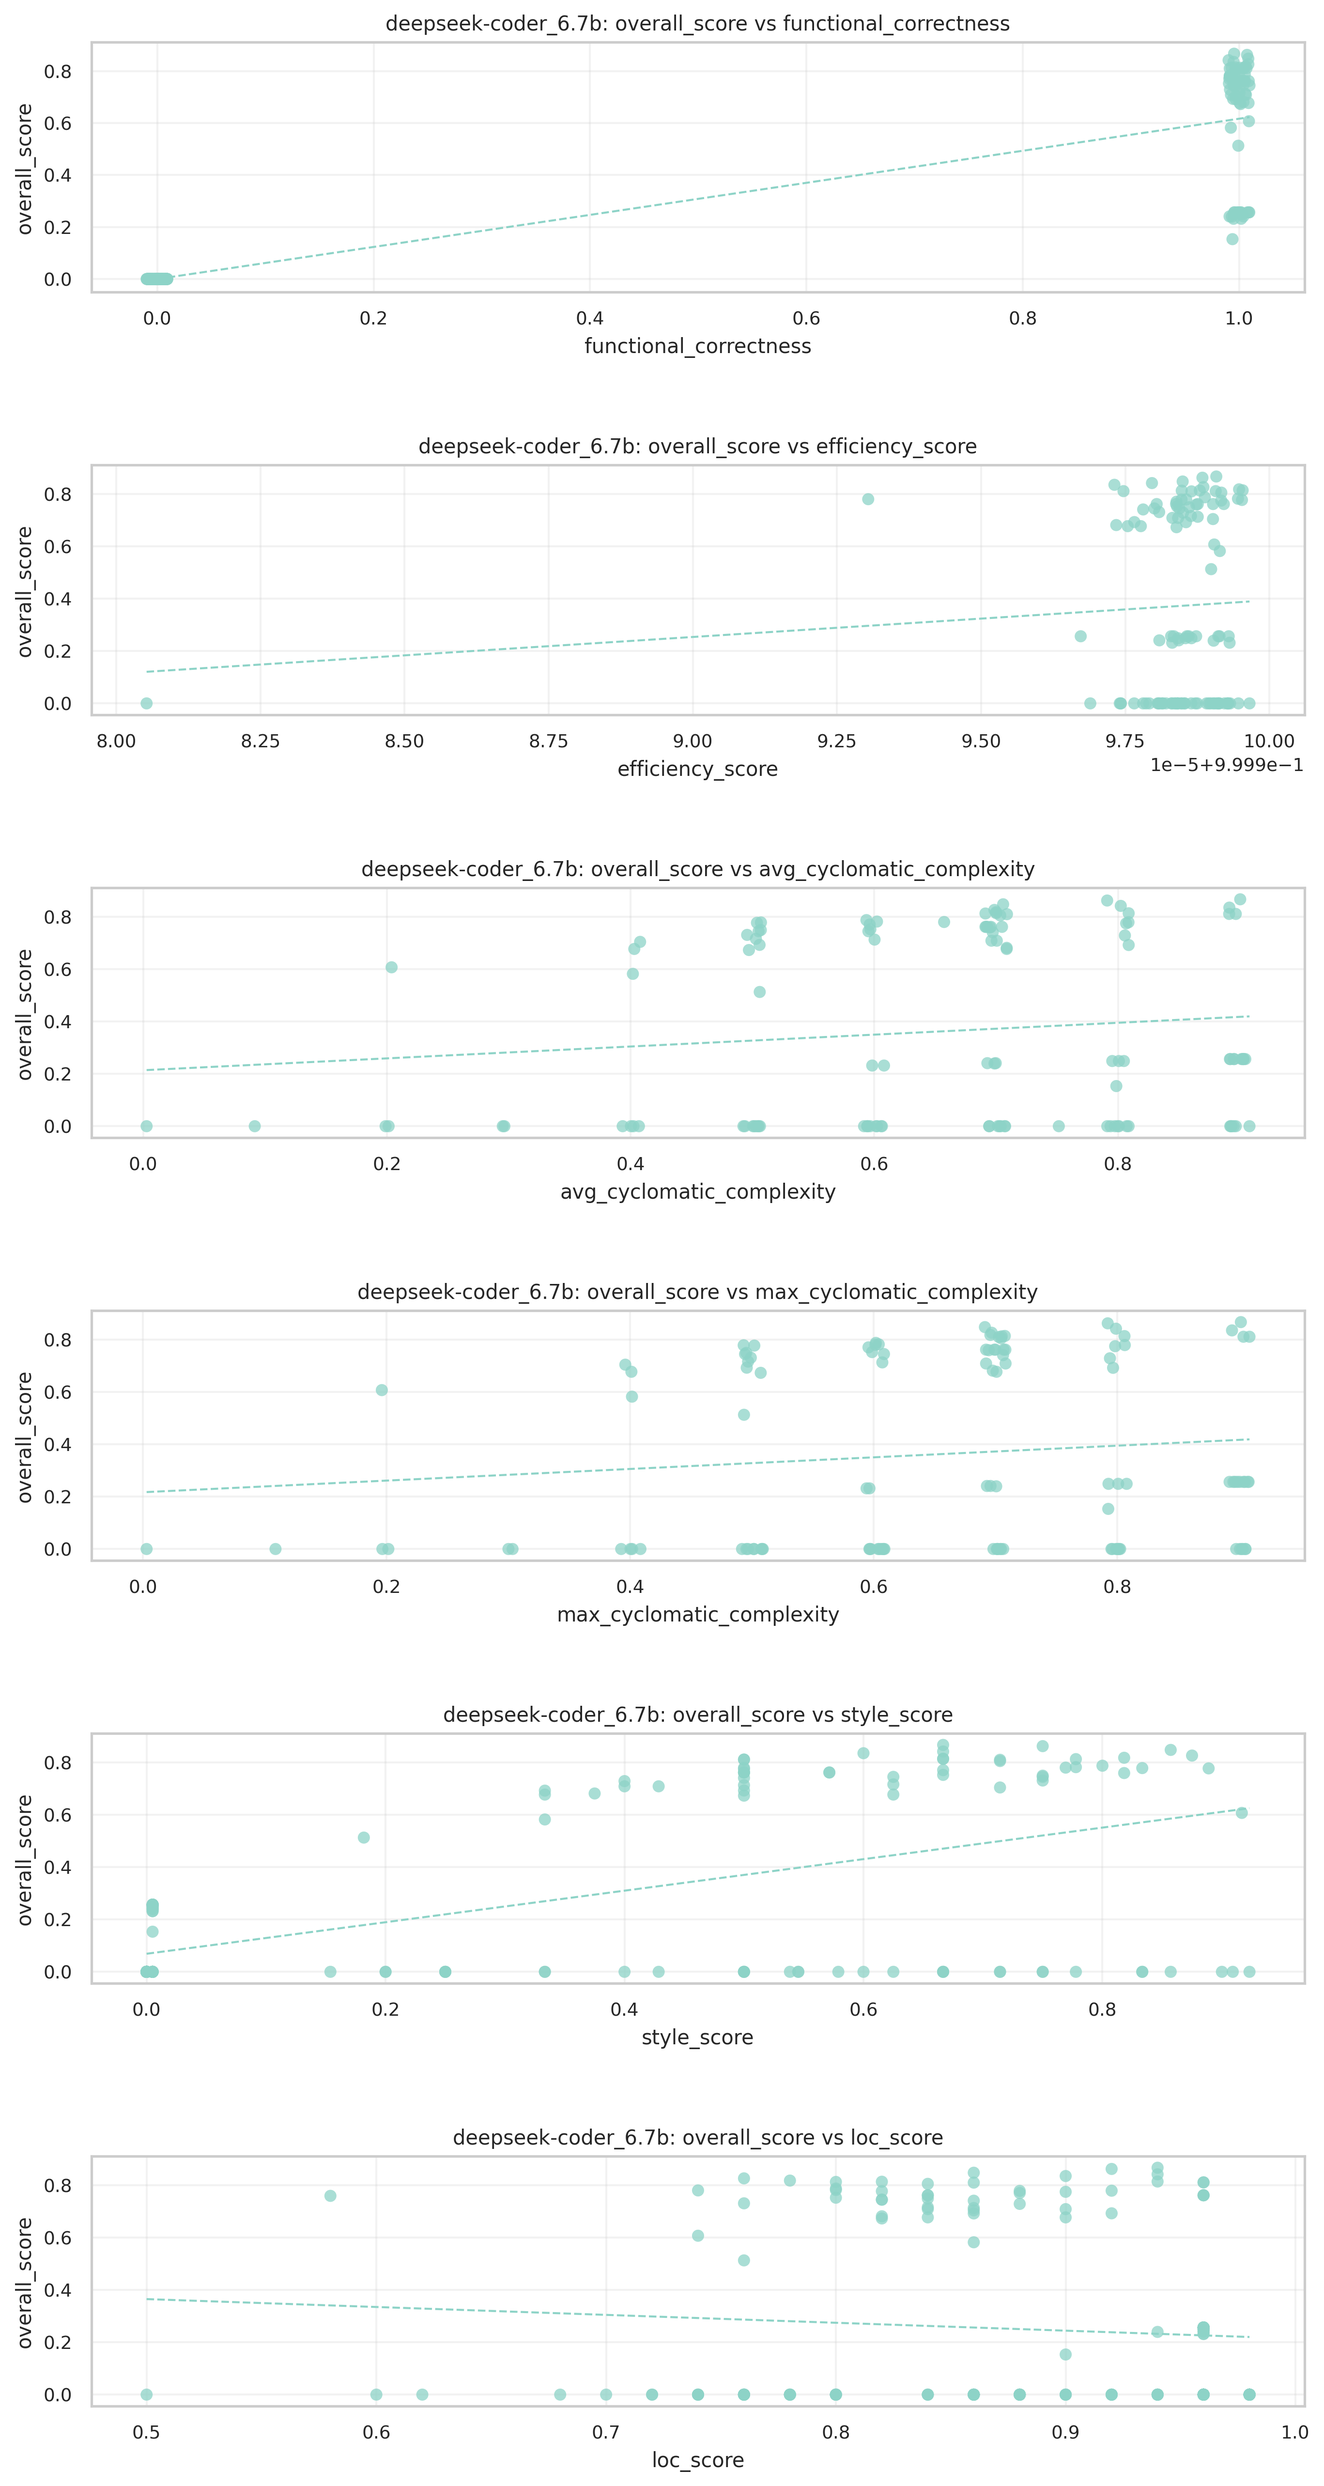
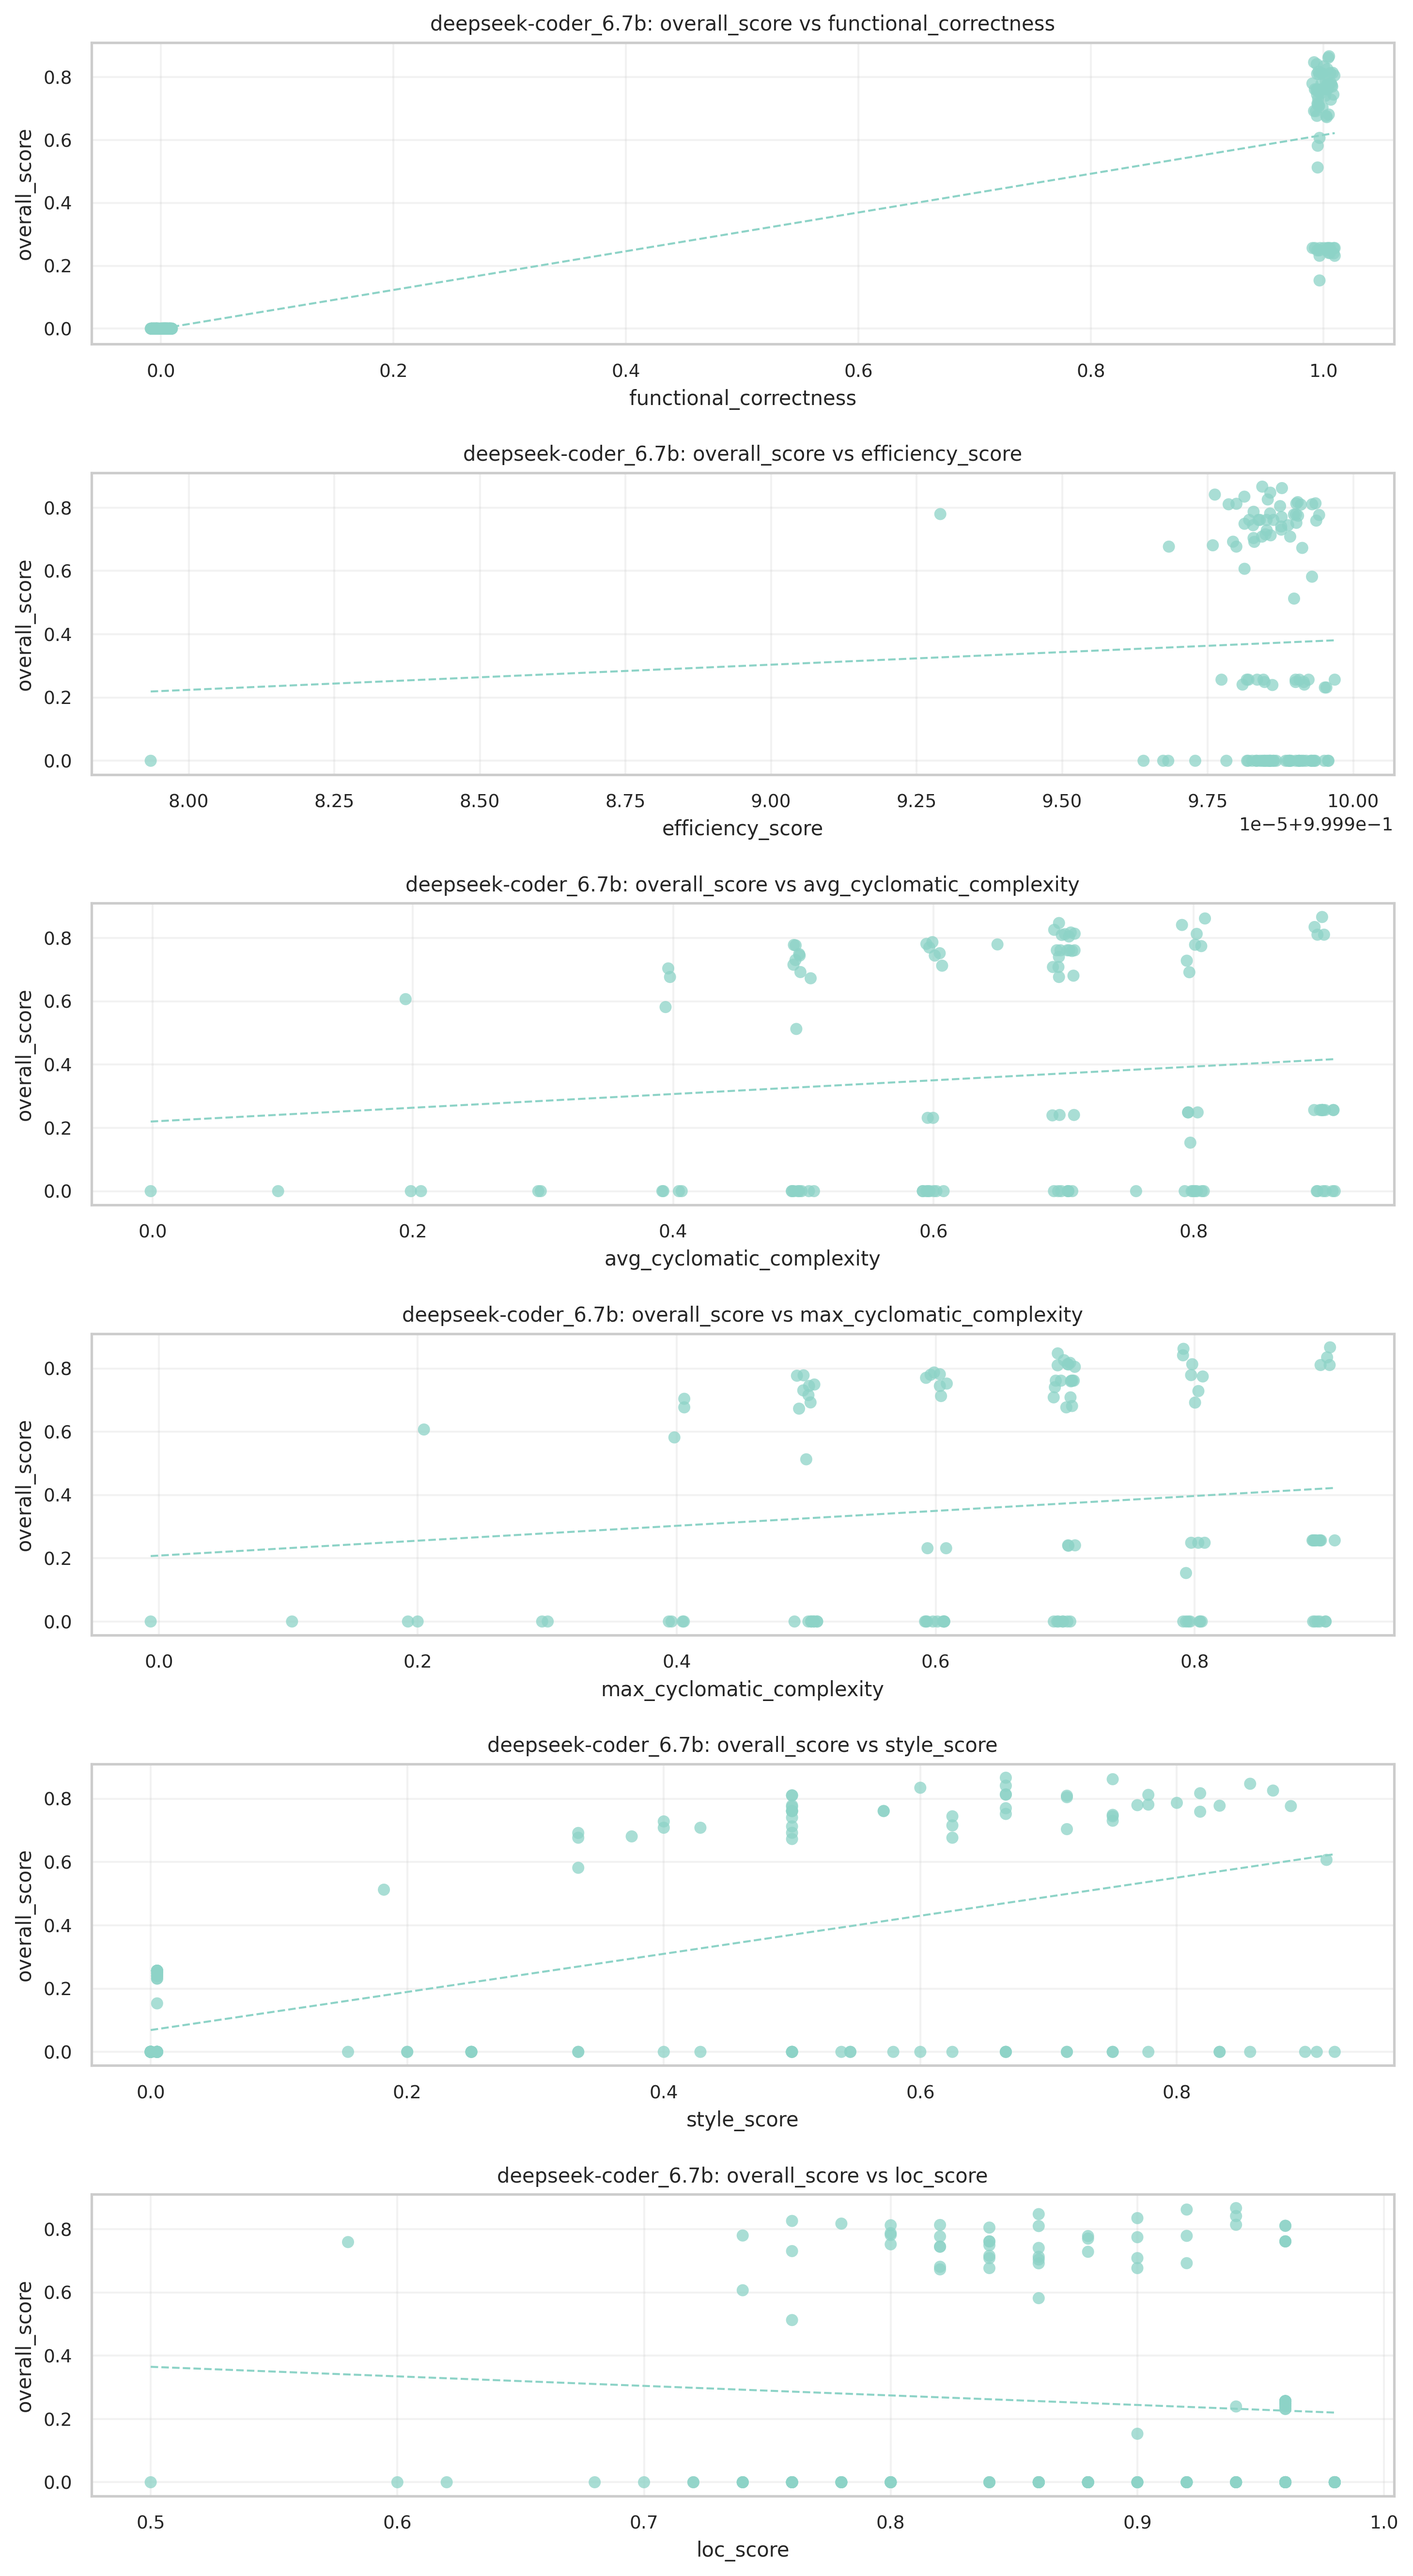
Adicionado correlacao entre metricas
Adicionado grafico de heatmap que mede spearman entre cada metrica.
adicionado nos resultados csv para concordancia de rank entre metricas.

diff --git a/scripts/overall_score.py b/scripts/overall_score.py
@@ -22,7 +22,7 @@ PREFERRED_METRICS = [
 ]
 
 # Theme
-sns.set_theme(style="whitegrid", palette="Set3", font_scale=3, font="sans-serif", rc={
+sns.set_theme(style="whitegrid", palette="Set3", font_scale=1.3, font="sans-serif", rc={
     "figure.figsize": (10, 5),
     "axes.titlesize": 11,
     "axes.labelsize": 10,
@@ -33,9 +33,7 @@ sns.set_theme(style="whitegrid", palette="Set3", font_scale=3, font="sans-serif"
 
 
 def load_summary_files(pattern: str) -> pd.DataFrame:
-    """Load all matching CSVs and attach a 'model' column (derived from filename).
-    Returns a concatenated DataFrame (may be empty).
-    """
+    """Load all matching CSVs and attach a 'model' column (derived from filename)."""
     files = glob.glob(pattern)
     print(f"Found {len(files)} summary files")
     dfs = []
@@ -49,12 +47,9 @@ def load_summary_files(pattern: str) -> pd.DataFrame:
             print(f"WARNING: failed to read '{f}': {e}")
     return pd.concat(dfs, ignore_index=True) if dfs else pd.DataFrame()
 
-
 def sanitize_series(s: pd.Series) -> pd.Series:
     """Attempt to coerce series to numeric and drop NaNs for plotting."""
-    s = pd.to_numeric(s, errors="coerce")
-    return s
-
+    return pd.to_numeric(s, errors="coerce")
 
 def plot_overall_score_distribution(df: pd.DataFrame, output_root: Path):
     """Create box plots and violin plots showing overall_score distribution by model.
@@ -127,7 +122,7 @@ def plot_overall_score_distribution(df: pd.DataFrame, output_root: Path):
 def plot_rank_concordance(df: pd.DataFrame, output_root: Path, metrics: list):
     """
     Create rank concordance plots comparing overall_score rankings vs other metrics.
-    Saves one file per metric and also a combined file with all metrics.
+    Also generates inter-metric Spearman correlation matrix and heatmap.
     """
     if df.empty:
         print("No data available for rank concordance plots.")
@@ -153,74 +148,118 @@ def plot_rank_concordance(df: pd.DataFrame, output_root: Path, metrics: list):
 
     print(f"Creating rank concordance plots for metrics: {available_metrics}")
 
-    # Prepare colors: one color per model (consistent across plots)
+    # Color map per model
     models = model_stats["model"].tolist()
     model_palette = sns.color_palette("Set3", n_colors=len(models))
     model_color_map = {m: model_palette[i] for i, m in enumerate(models)}
 
     overall_ranks = model_stats["overall_score"].rank(ascending=False, method="average")
 
-    # Combined figure setup
+    # === 1. Rank Concordance Plots (individual + combined) ===
     n_metrics = len(available_metrics)
     n_cols = min(3, n_metrics)
     n_rows = (n_metrics + n_cols - 1) // n_cols
-    fig_combined, axes_combined = plt.subplots(n_rows, n_cols, figsize=(5 * n_cols, 4 * n_rows))
-    axes_combined = np.array(axes_combined).reshape(-1)
+    fig_combined, axes_combined = plt.subplots(n_rows, n_cols, figsize=(6 * n_cols, 5 * n_rows))
+    axes_combined = np.array(axes_combined).ravel()
+
+    rank_dir = output_root / "rank_concordance"
+    rank_dir.mkdir(parents=True, exist_ok=True)
 
     for i, metric in enumerate(available_metrics):
         metric_ranks = model_stats[metric].rank(ascending=False, method="average")
 
-        # Individual figure
-        fig, ax = plt.subplots(figsize=(6, 5))
+        # Individual plot
+        fig, ax = plt.subplots(figsize=(7, 6))
         _plot_rank_concordance_core(ax, model_stats, overall_ranks, metric_ranks, metric, model_color_map)
-        rank_dir = output_root / "rank_concordance" 
-        rank_dir.mkdir(parents=True, exist_ok=True)
         out_file_ind = rank_dir / f"rank_concordance_{metric}.png"
         fig.savefig(out_file_ind, dpi=300, bbox_inches="tight")
         plt.close(fig)
-        print(f"Saved rank concordance plot -> {out_file_ind}")
+        print(f"   Saved: {out_file_ind.name}")
 
-        # Populate combined subplot
+        # Combined subplot
         axc = axes_combined[i]
         _plot_rank_concordance_core(axc, model_stats, overall_ranks, metric_ranks, metric, model_color_map)
+        axc.set_title(metric.replace("_", " ").title(), fontsize=11, pad=10)
 
-    # Hide remaining axes in combined
-    for j in range(len(available_metrics), len(axes_combined)):
+    # Hide unused subplots
+    for j in range(i + 1, len(axes_combined)):
         axes_combined[j].set_visible(False)
 
     plt.tight_layout()
-    out_file_comb = output_root / "rank_concordance_plots.png"
-    fig_combined.savefig(out_file_comb, dpi=300, bbox_inches="tight")
+    combined_path = output_root / "rank_concordance_plots.png"
+    fig_combined.savefig(combined_path, dpi=300, bbox_inches="tight")
     plt.close(fig_combined)
-    print(f"Saved combined rank concordance plots -> {out_file_comb}")
+    print(f"   Saved combined: {combined_path.name}")
+
+    # === 2. NEW: Inter-metric Spearman Correlation Heatmap ===
+    print("   Generating inter-metric Spearman correlation matrix...")
+    
+    corr_data = model_stats[available_metrics]
+    spearman_matrix = corr_data.corr(method='spearman')
+
+    plt.figure(figsize=(max(7, len(available_metrics) * 0.95), max(6, len(available_metrics) * 0.85)))
+    mask = np.triu(np.ones_like(spearman_matrix, dtype=bool), k=1)
+
+    sns.heatmap(spearman_matrix,
+                annot=True,
+                fmt=".3f",
+                cmap="coolwarm",
+                center=0,
+                vmin=-1, vmax=1,
+                square=True,
+                linewidths=0.7,
+                linecolor='gray',
+                cbar_kws={"shrink": 0.8},
+                mask=mask,
+                annot_kws={"size": 10, "weight": "bold"})
+
+    plt.title("Spearman Rank Correlation Between Individual Metrics", 
+              fontsize=14, fontweight="bold", pad=20)
+    plt.xticks(rotation=45, ha="right")
+    plt.yticks(rotation=0)
+    plt.tight_layout()
+
+    heatmap_path = rank_dir / "inter_metric_spearman_correlation.png"
+    plt.savefig(heatmap_path, dpi=300, bbox_inches="tight")
+    plt.close()
+    print(f"   Saved correlation heatmap → {heatmap_path.name}")
+
+    # Save CSV tables (perfect for appendix)
+    csv_path = rank_dir / "inter_metric_spearman_correlation.csv"
+    spearman_matrix.round(4).to_csv(csv_path)
+    print(f"   Saved correlation table → {csv_path.name}")
+
+    # Optional: p-values
+    _, pval = spearmanr(corr_data)
+    pval_df = pd.DataFrame(pval, index=available_metrics, columns=available_metrics)
+    pval_csv = rank_dir / "inter_metric_spearman_pvalues.csv"
+    pval_df.round(4).to_csv(pval_csv)
+    print(f"   Saved p-values → {pval_csv.name}")
+
+    print("All rank concordance + inter-metric correlation analysis complete!\n")
 
 
 def _plot_rank_concordance_core(ax, model_stats, overall_ranks, metric_ranks, metric, model_color_map):
     """Core plotting routine for a rank concordance axis."""
-    # Scatter with model-specific colors
     xs = overall_ranks.values
     ys = metric_ranks.values
     colors = [model_color_map[m] for m in model_stats["model"]]
     ax.scatter(xs, ys, s=90, alpha=0.9, edgecolors="black", linewidth=0.6, c=colors)
 
-    # Annotate each point with model name
     for idx, row in model_stats.iterrows():
         ax.annotate(row["model"], (xs[idx], ys[idx]),
                     xytext=(6, 4), textcoords="offset points",
                     fontsize=8, alpha=0.85)
 
-    # Perfect correlation line
     min_rank = min(xs.min(), ys.min())
     max_rank = max(xs.max(), ys.max())
     ax.plot([min_rank, max_rank], [min_rank, max_rank], "r--", alpha=0.35, linewidth=1.5)
 
-    # Spearman
     corr, p_val = spearmanr(xs, ys)
-
-    # Formatting
     ax.set_xlabel("Overall Score Rank", fontsize=10)
-    ax.set_ylabel(f"{metric} Rank", fontsize=10)
-    ax.set_title(f"Rank Concordance: Overall vs {metric}\nρ={corr:.3f}, p={p_val:.3f}", fontsize=11, fontweight="semibold")
+    ax.set_ylabel(f"{metric.replace('_', ' ').title()} Rank", fontsize=10)
+    ax.set_title(f"Overall vs {metric.replace('_', ' ').title()}\nρ = {corr:.3f} (p = {p_val:.3f})",
+                 fontsize=11, fontweight="semibold")
     ax.grid(True, alpha=0.25, linestyle="--")
     ax.set_xlim(min_rank - 0.5, max_rank + 0.5)
     ax.set_ylim(min_rank - 0.5, max_rank + 0.5)
@@ -414,16 +453,9 @@ def plot_per_model_scatter(df: pd.DataFrame, output_root: Path, metrics: list):
 if __name__ == "__main__":
     df_all = load_summary_files(SUMMARY_GLOB)
 
-    # Distribution: box + violin combined
     plot_overall_score_distribution(df_all, OUTPUT_DIR)
-
-    # Rank concordance: individual + combined
     plot_rank_concordance(df_all, OUTPUT_DIR, PREFERRED_METRICS)
-
-    # Delta improvement: individual + combined
     plot_delta_improvement(df_all, OUTPUT_DIR, PREFERRED_METRICS)
-
-    # Per-model scatter plots
     plot_per_model_scatter(df_all, OUTPUT_DIR, PREFERRED_METRICS)
 
-    print("Done.")
+    print("All plots generated successfully!")
